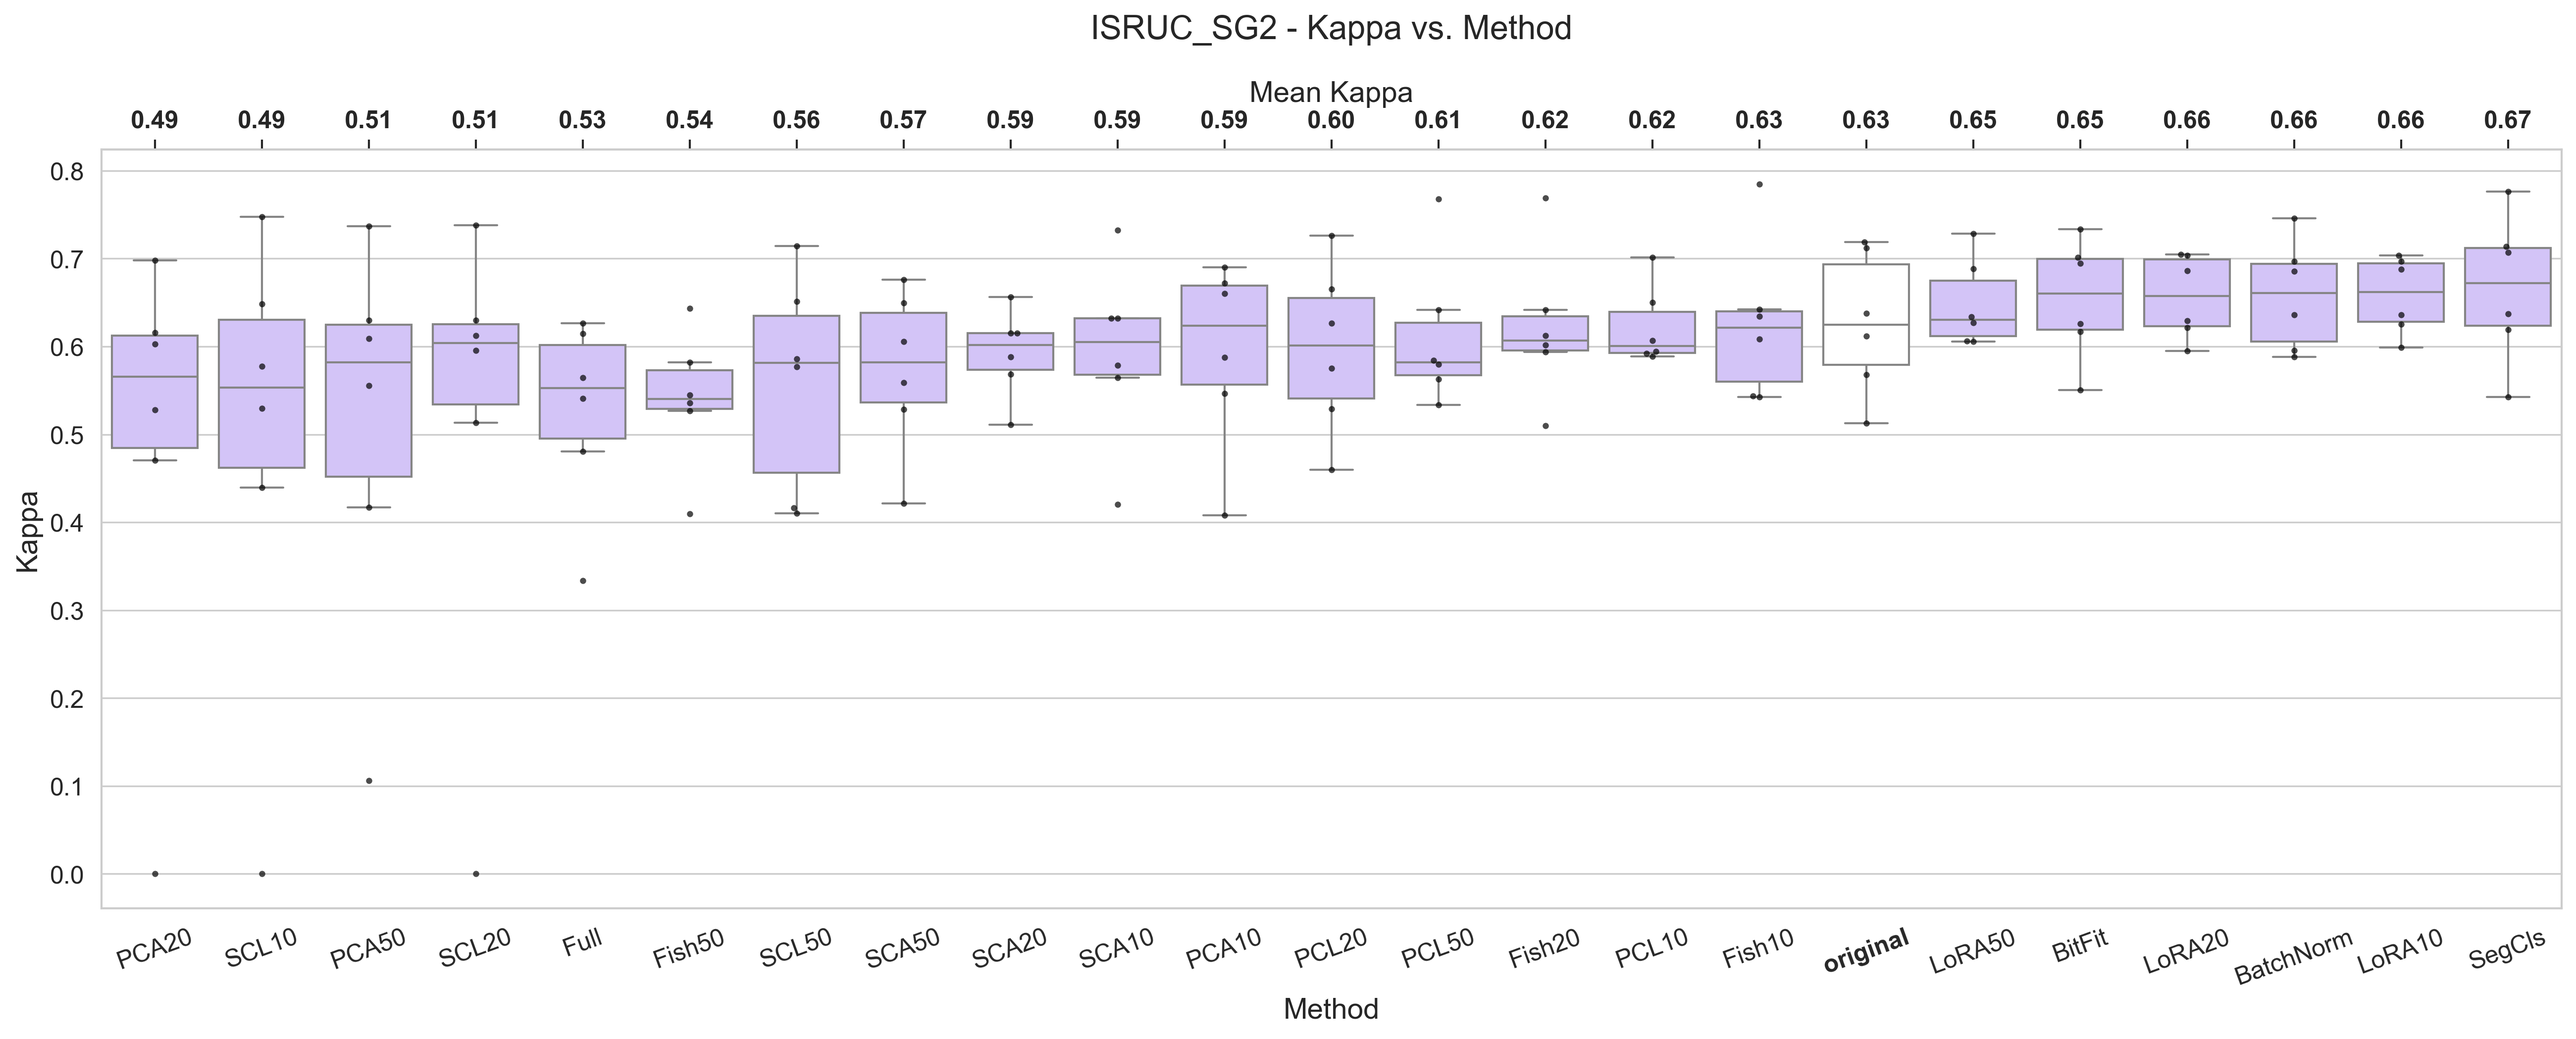
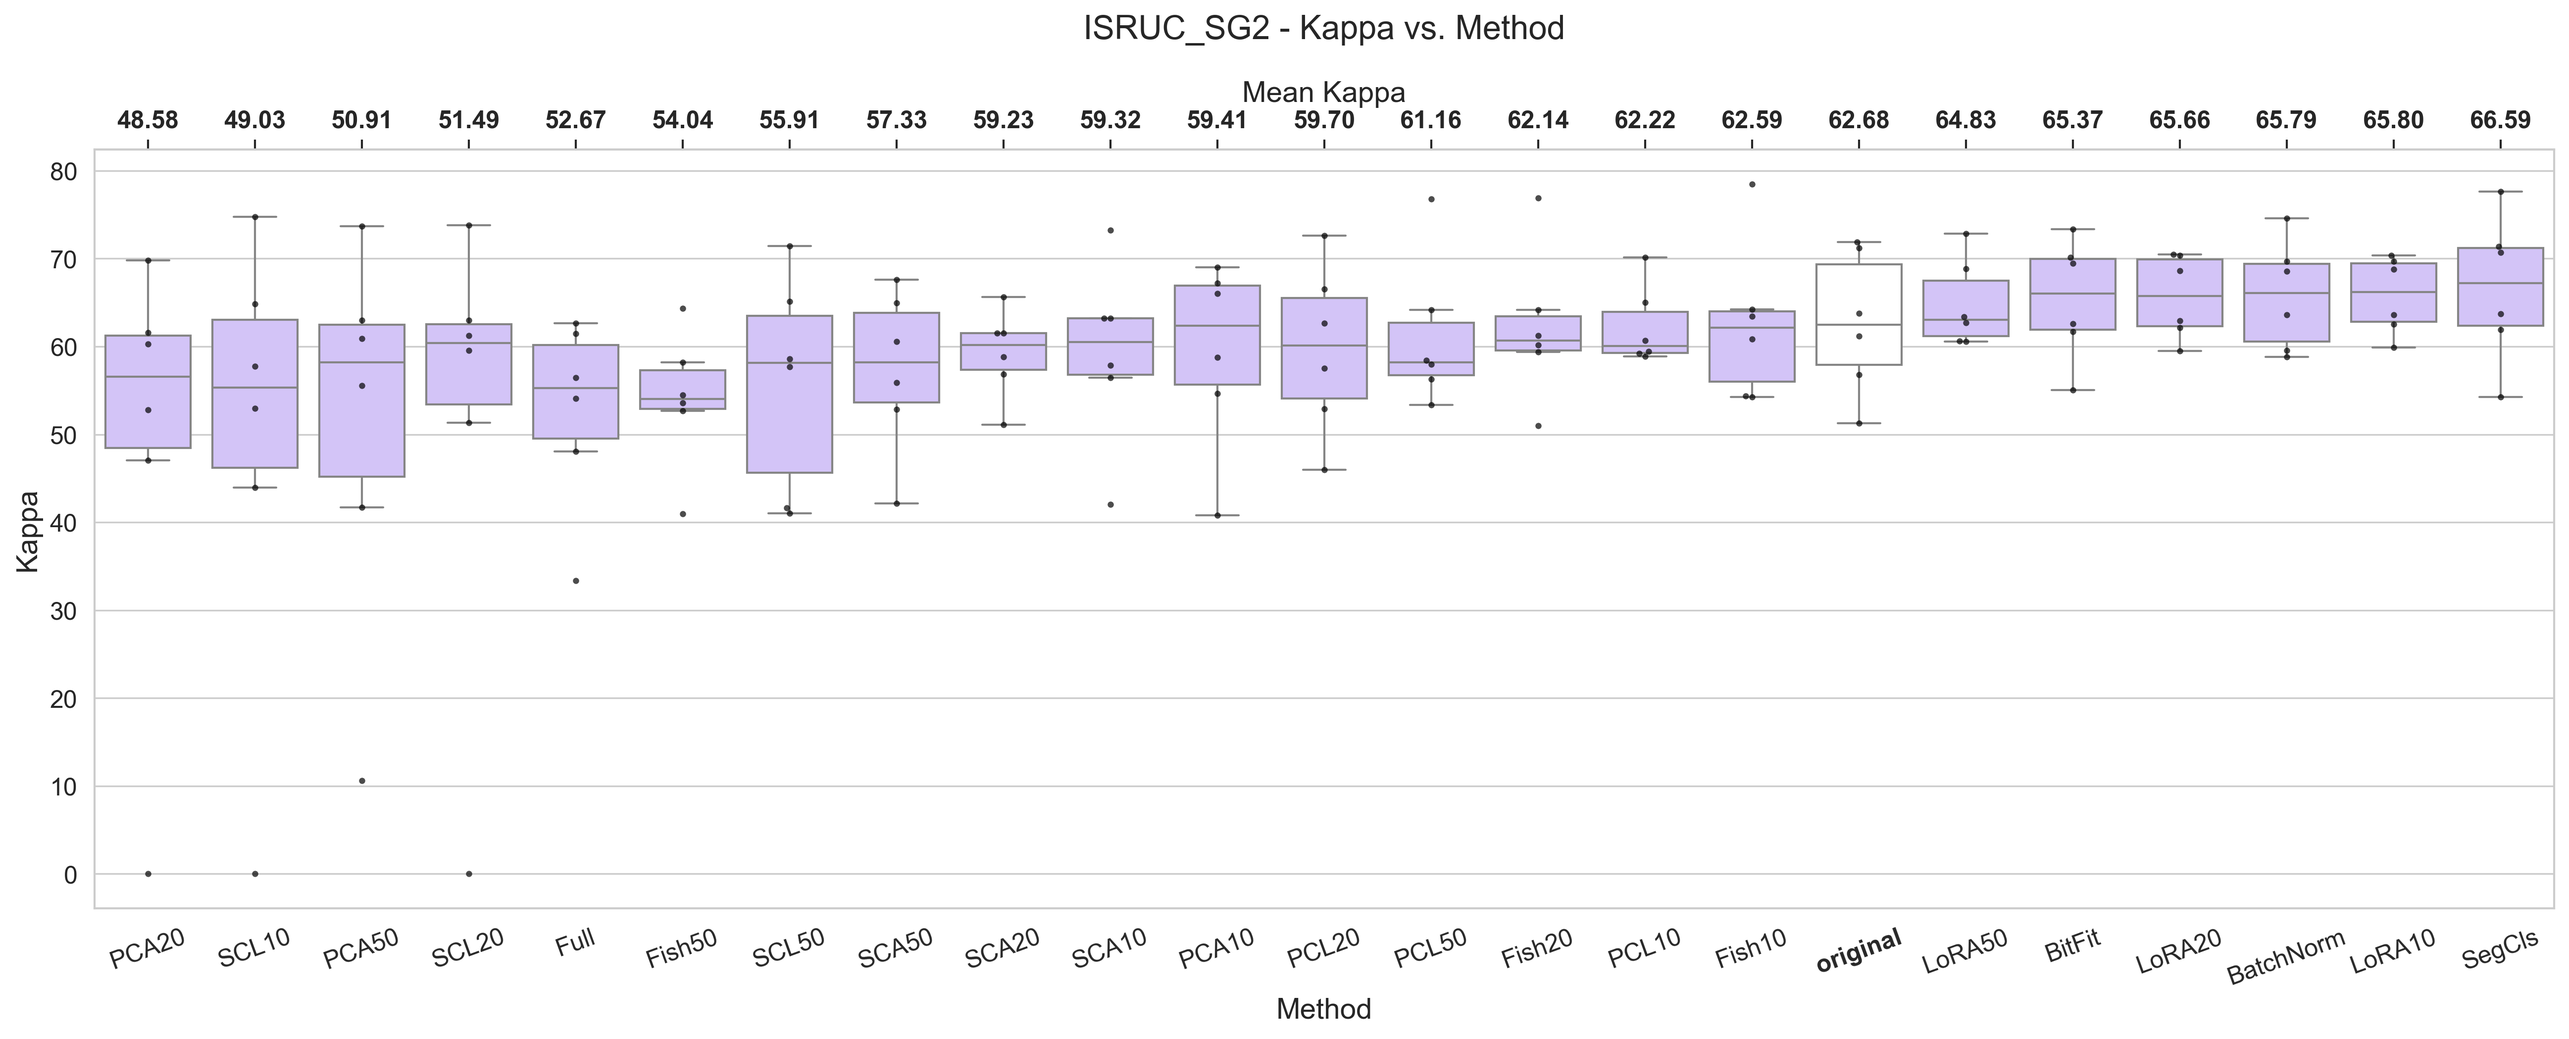
kappa scaled by 100

diff --git a/src/plot/kappa_vs_methods.py b/src/plot/kappa_vs_methods.py
@@ -10,13 +10,13 @@ from src.utils.neptune_api.method_data import extract_performance
 
 def plot_kappa_vs_methods(show: bool = False) -> None:
     data = get_kappa_data()
+    data = data.with_columns(pl.col("kappa") * 100)
 
     for _, grp_df in data.group_by("dataset"):
         _plot_kappa_vs_methods(grp_df, show=show)
 
 
 def get_kappa_data() -> pl.DataFrame:
-    # TODO: Filter to keep only rows with train_size = None
     raw_data = load_data()
 
     dfs = []
